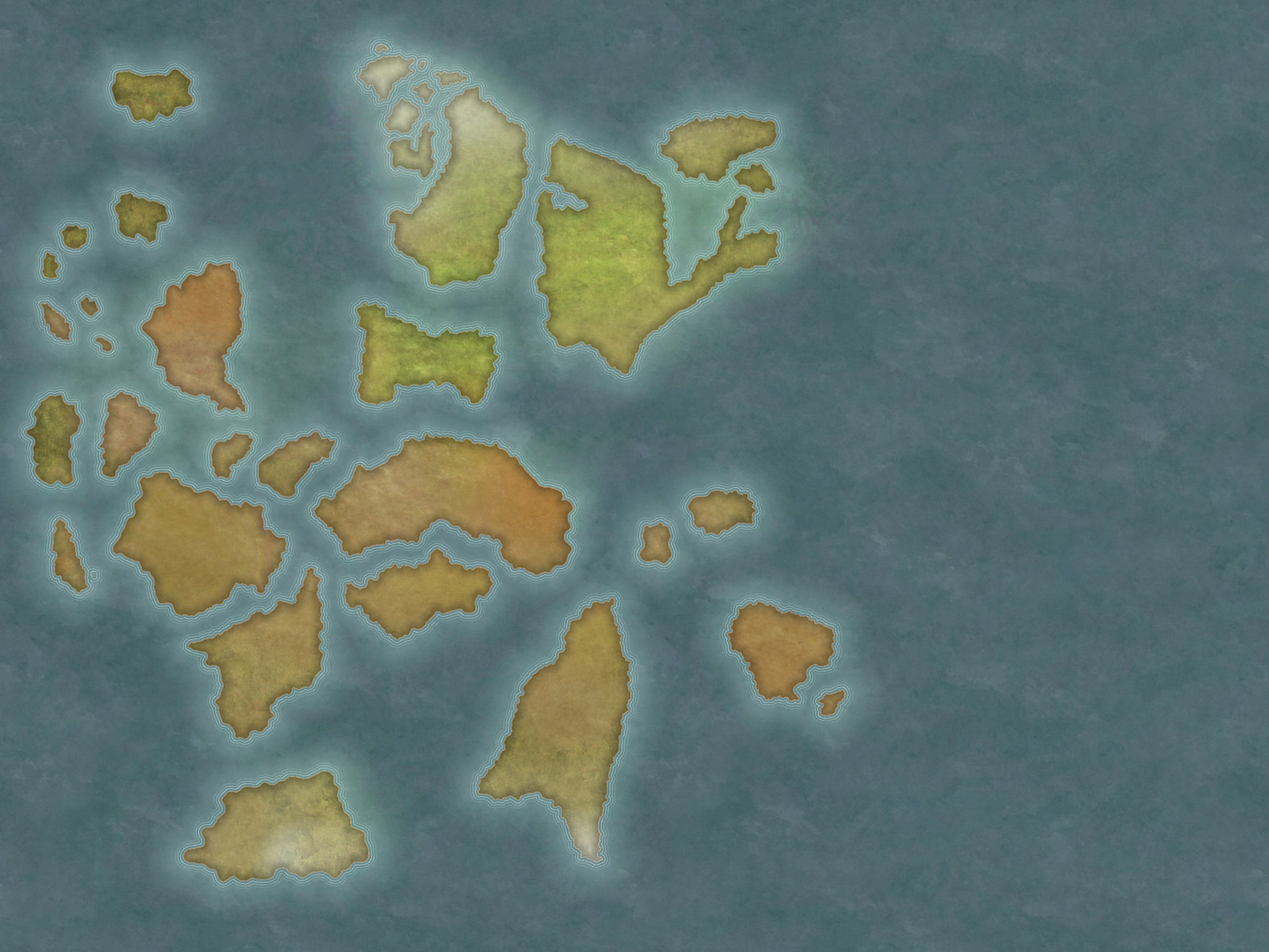
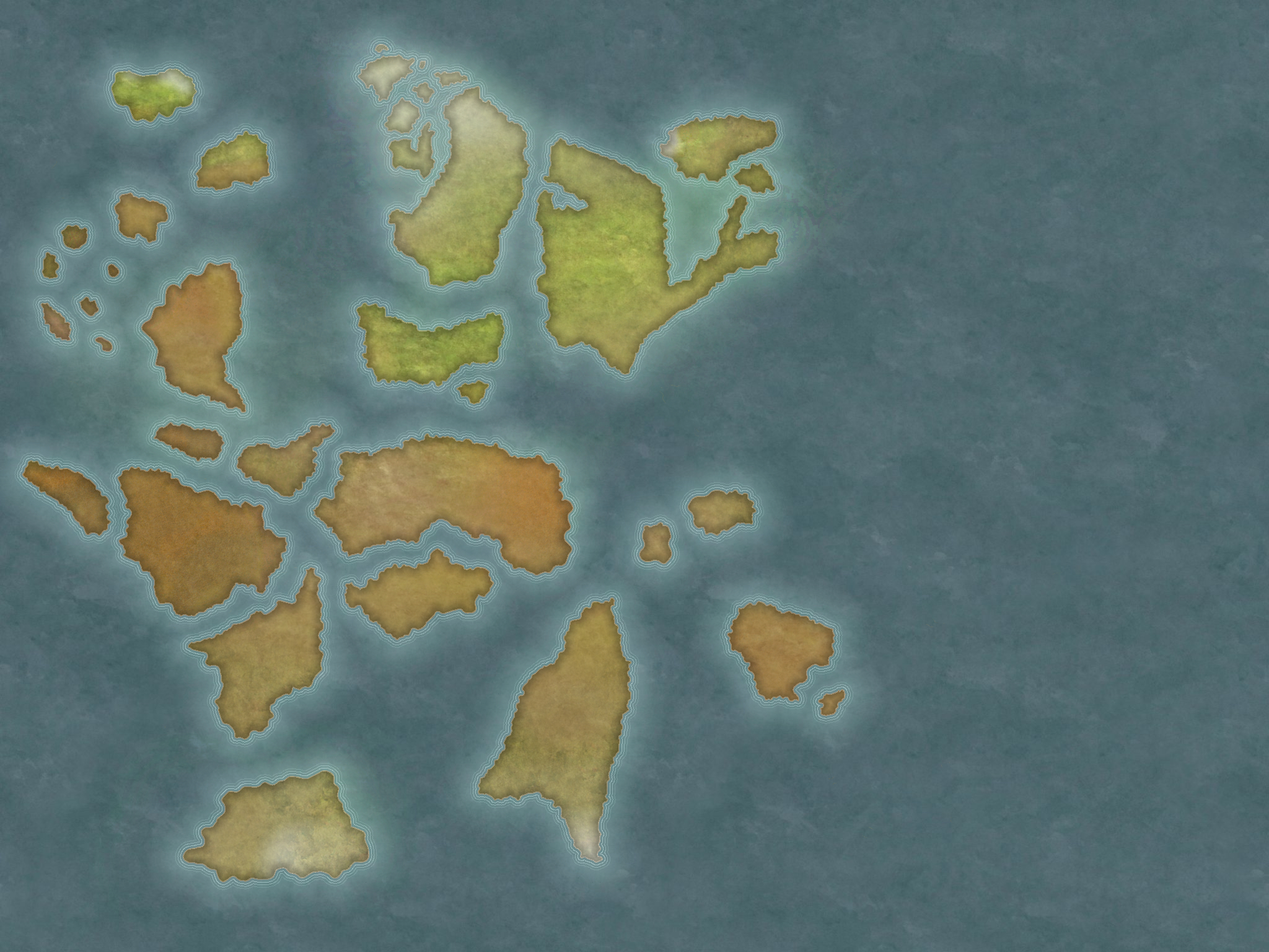
major ethnotype and map update 1

diff --git a/panategwa-d-map-page.html b/panategwa-d-map-page.html
@@ -17,7 +17,14 @@
   top:20.5%;
   left:37%;
   font-size:20px;
-  padding:font-size;
+  padding:20px 20px;
+}
+
+.prokheevanians{
+  top:34.5%;
+  left:28.5%;
+  font-size:11px; 
+  padding:10px 10px;
 }
 
 .rashooties{
@@ -30,6 +37,13 @@
 .mazunians{
   top:54%;
   left:11%;
+  font-size:13px;
+  padding:12px 12px;
+}
+
+.mazukhalians{
+  top:49%;
+  left:0.5%;
   font-size:13px;
   padding:12px 12px;
 }
@@ -48,6 +62,13 @@
   padding:11px 11px;
 }
 
+.jamukhalids{
+  top:60.5%;
+  left:27.5%;
+  font-size:15px;
+  padding:11px 11px;
+}
+
 .arifalums{
   top:74%;
   left:40%;
@@ -61,31 +82,61 @@
   font-size:10px;
   padding:10px 10px;
 }
-.mocasias{
-  top:20%;
-  left:20%;
-  font-size:20px;
-  padding:20px 20px;
+.mohambus{
+  top:44.5%;
+  left:11.5%;
+  font-size:10px;
+  padding:10px 10px;
 }
 .dawooshamoods{
-  top:80%;
-  left:5%;
-  font-size:20px;
-  padding:20px 20px;
+  top:20.5%;
+  left:6.5%;
+  font-size:10px;
+  padding:8px 8px;
 }
 .camebaptrons{
-  top:80%;
-  left:5%;
-  font-size:20px;
-  padding:20px 20px;
+  top:15%;
+  left:14%;
+  font-size:10px;
+  padding:9px 9px;
 }
 .archiburgs{
-  top:80%;
-  left:5%;
-  font-size:20px;
-  padding:20px 20px;
+  top:8%;
+  left:8.5%;
+  font-size:10px;
+  padding:9px 9px;
+}
+.hamdungs{
+  top:85%;
+  left:17%;
+  font-size:15px;
+  padding:11px 11px;
+}
+.rayajamadars{
+  top:65%;
+  left:57%;
+  font-size:12px;
+  padding:11px 11px;
+}
+.omahassas{
+  top:72%;
+  left:62%;
+  font-size:9px;
+  padding:8px 8px;
 }
 
+.neevekians{
+  top:55.5%;
+  left:48.5%;
+  font-size:9px;
+  padding:8px 8px;
+}
+.krishlavanians{
+ top:51.5%;
+  left:53%;
+  font-size:10px;
+  padding:9px 9px;
+}
 
 </style>
 </head>
@@ -114,10 +165,18 @@
 <a class="ethnotype arifalums" data-ethnotype="Arifalums" href="panategwa-d-life-page.html?ethnotype=Arifalums">Arifalums</a>
 <a class="ethnotype foozeens" data-ethnotype="Foozeens" href="panategwa-d-life-page.html?ethnotype=Foozeens">Foozeens</a>
 <a class="ethnotype amronians" data-ethnotype="Amronians" href="panategwa-d-life-page.html?ethnotype=Amronians">Amronians</a>
-<a class="ethnotype mocasias" data-ethnotype="Mocasias" href="panategwa-d-life-page.html?ethnotype=Mocasias">Mocasias</a>
-<a class="ethnotype dawooshamoods" data-ethnotype="DawooShamoods" href="panategwa-d-life-page.html?ethnotype=DawooShamoods">DawooShamoods</a>
+<a class="ethnotype mohambus" data-ethnotype="Mohambus" href="panategwa-d-life-page.html?ethnotype=Mohambus">Mohambus</a>
+<a class="ethnotype dawooshamoods" data-ethnotype="Dawooshamoods" href="panategwa-d-life-page.html?ethnotype=Dawooshamoods">Dawooshamoods</a>
 <a class="ethnotype camebaptrons" data-ethnotype="Camebaptrons" href="panategwa-d-life-page.html?ethnotype=Camebaptrons">Camebaptrons</a>
 <a class="ethnotype archiburgs" data-ethnotype="Archiburgs" href="panategwa-d-life-page.html?ethnotype=Archiburgs">Archiburgs</a>
+<a class="ethnotype hamdungs" data-ethnotype="Hamdungs" href="panategwa-d-life-page.html?ethnotype=Hamdungs">Hamdungs</a>
+<a class="ethnotype mazukhalians" data-ethnotype="Mazukhalians" href="panategwa-d-life-page.html?ethnotype=Mazukhalians">Mazukhalians</a>
+<a class="ethnotype jamukhalids" data-ethnotype="Jamukhalids" href="panategwa-d-life-page.html?ethnotype=Jamukhalids">Jamukhalids</a>
+<a class="ethnotype rayajamadars" data-ethnotype="Rayajamadars" href="panategwa-d-life-page.html?ethnotype=Rayajamadars">Rayajamadars</a>
+<a class="ethnotype omahassas" data-ethnotype="Omahassas" href="panategwa-d-life-page.html?ethnotype=Omahassas">Omahassas</a>
+<a class="ethnotype neevekians" data-ethnotype="Neevekians" href="panategwa-d-life-page.html?ethnotype=Neevekians">Neevekians</a>
+<a class="ethnotype krishlavanians" data-ethnotype="Krishlavanians" href="panategwa-d-life-page.html?ethnotype=Krishlavanians">Krishlavanians</a>
+<a class="ethnotype prokheevanians" data-ethnotype="Prokheevanians" href="panategwa-d-life-page.html?ethnotype=Prokheevanians">Prokheevanians</a>
 
 </div>
 

diff --git a/index.html b/index.html
@@ -21,8 +21,9 @@
   <img src="https://i.pinimg.com/736x/de/2c/74/de2c748d2e38ca778837b4a9af731023.jpg" width="620" />
 </div>
 <div class="button-container">
-  <button onclick="window.open('https://www.youtube.com/@PanategwaGaming', '_blank');">
-    Panategwa Gaming (YouTube)
+  <button class="yt-button" onclick="window.open('https://www.youtube.com/@PanategwaGaming', '_blank');">
+    <img src="yt-logo.png" class="yt-icon" alt="YouTube logo">
+    Panategwa Gaming (YouTube Channel)
   </button>
 </div>
 </body>

diff --git a/styles.css b/styles.css
@@ -472,3 +472,21 @@ main {
 .ethnotype:active {
   color: rgb(0,0,0);
 }
+
+.yt-icon{
+  height: 3em;
+  width: auto;
+  margin-right: 5px;
+  vertical-align: middle;
+  border-radius: 0;
+}
+
+.yt-button{
+  background-color: rgb(175, 0, 0, 0.5);
+  color: white;
+  border: 2px solid rgb(100, 0, 0, 0.75);
+}
+
+.yt-button:hover{
+  filter: brightness(0.85);
+}
